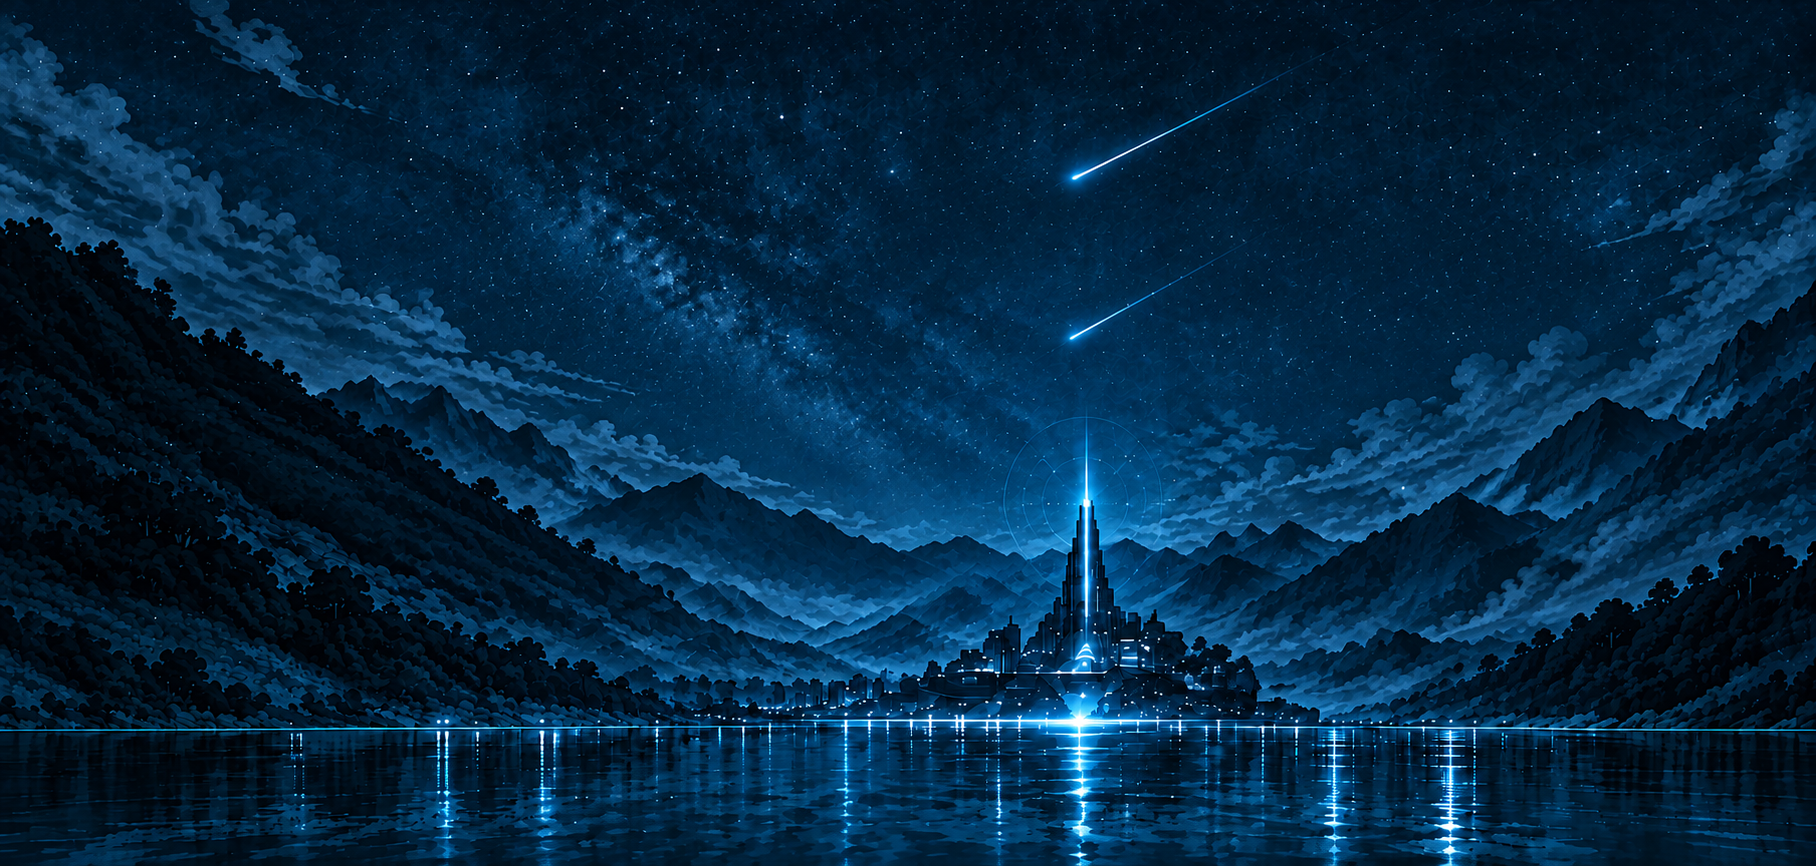
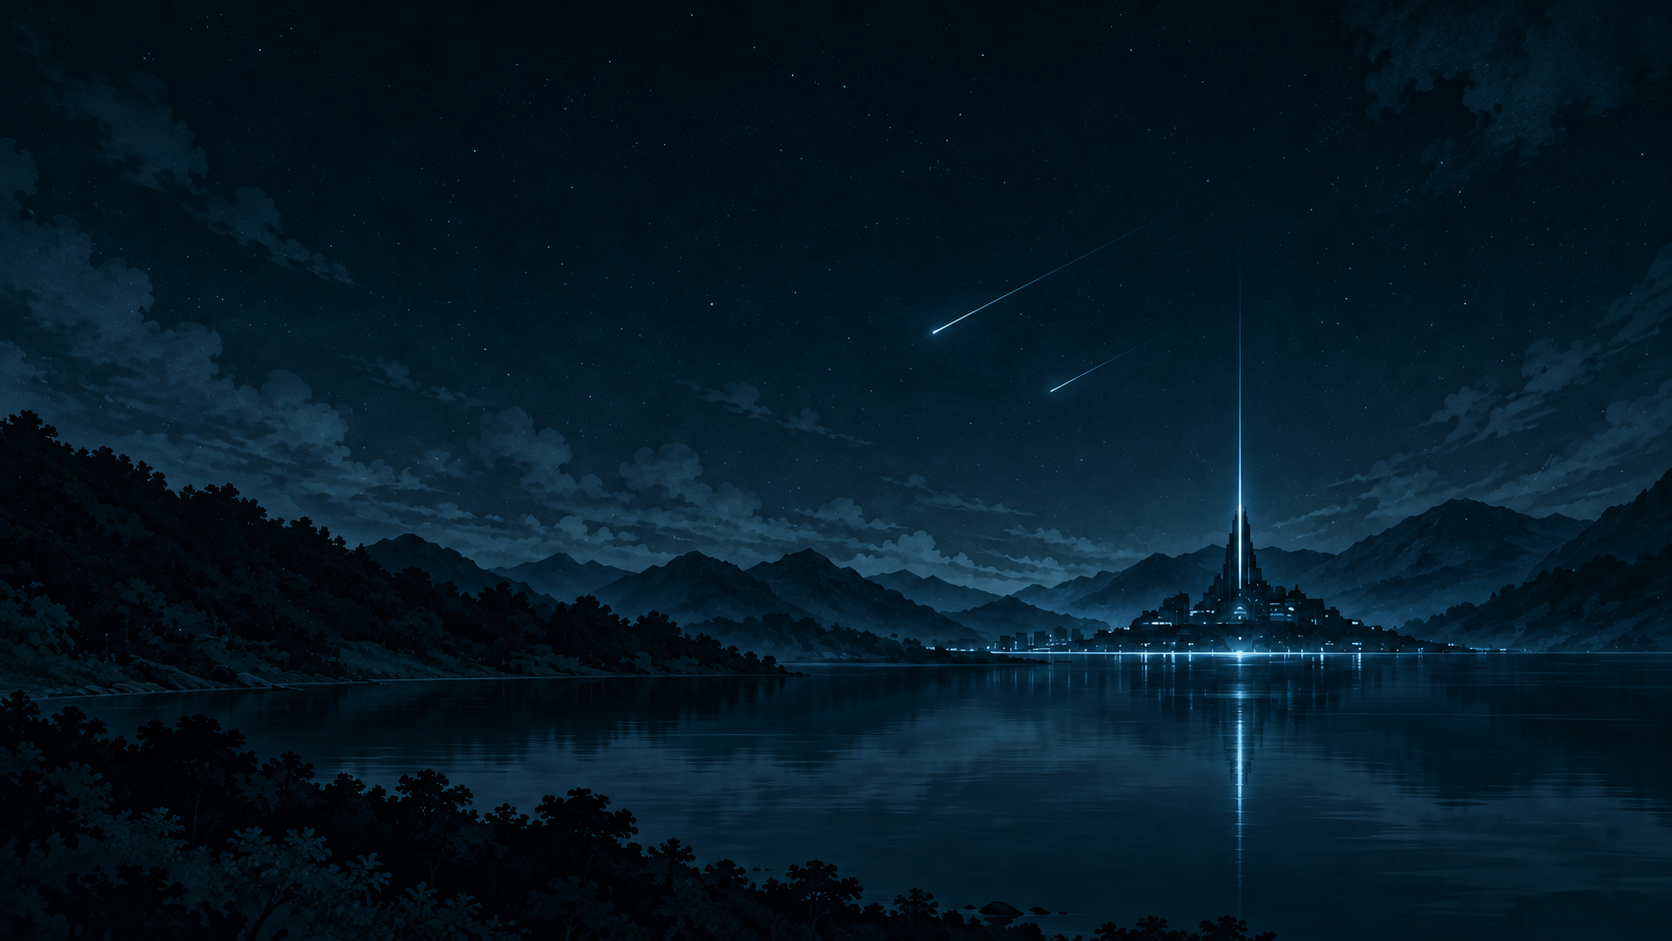
style: replace desktop wallpaper with restrained navy lake scene

diff --git a/assets/wallpapers/README.md b/assets/wallpapers/README.md
@@ -1,0 +1,16 @@
+# 기본 배경화면
+
+`shittim-lake.png`는 사용자가 제공한 차분한 초기 시안에서 글씨·상단 바·시계·HUD 표시를 제거하고, 어두운 남청색·청록색 산과 호수 구도를 16:9 배경으로 재생성한 이미지다. 기본 내장 `image_gen` 도구를 사용했다. 원본 생성 파일은 Codex 생성 이미지 폴더에 보존하고, 프로젝트가 읽는 이미지는 이 디렉터리에 저장한다. `DesktopSurface.qml`과 설치 검증이 같은 기본 파일을 사용한다.
+
+실제 생성 파일은 1672×941 PNG다. 첨부된 1410×375 참고 이미지보다 픽셀 수가 많으며, 요청한 3840×2160 출력은 생성 도구가 반환하지 않았다. 별도 확대 파일을 4K 원본으로 표기하지 않는다.
+
+생성 요청 원문:
+
+```text
+Use case: precise-object-edit / stylized-concept.
+Asset type: high-resolution desktop wallpaper for Shittim, a finished opaque landscape image.
+Input image: the attached panoramic desktop reference is the visual source. Reconstruct ONLY its underlying landscape, removing every interface overlay. Preserve its restrained dark navy / blackened teal palette, quiet low contrast, layered wooded mountain valley, sparse fine stars, two very thin shooting-star streaks, calm lake reflections, and slender futuristic citadel located about three quarters across the frame on the distant shore. The citadel and one delicate vertical cyan light beam are small accents; do not enlarge or dramatize them.
+Remove ALL words, numbers, logos, top bar, icons, time, date, SHITTIM text, system information, horizontal divider lines, HUD circles, clock rings, borders, and interface graphics; naturally reconstruct scenery where these were. Keep the tower's actual architectural light, but remove decorative HUD rings around it.
+Make a clean 16:9 wallpaper at 3840x2160 if supported, otherwise the highest native landscape resolution available. Expand the reference's panoramic landscape naturally vertically to fit 16:9 while keeping the tower on the right, distant shore in the lower quarter, and plenty of subdued open sky. Match the attached image's subdued colors, not the vivid saturated blue / dense glowing stars of a dramatic fantasy wallpaper. No large bright nebula, excessive cyan glow, oversaturated blue, bright white clouds, high-contrast reflective lake, people, or additional buildings. Sharp fine painted/illustrated details, quiet atmospheric depth, no text anywhere.
+```
+

diff --git a/docs/desktop-shell.md b/docs/desktop-shell.md
@@ -1,6 +1,6 @@
 # 바탕화면·하단 Dock·드래그 스냅
 
[1 lines of base64/hex data omitted]
+기본 배경은 `assets/wallpapers/shittim-lake.png`다. 사용자가 제공한 초기 시안의 절제된 남청색·청록색 산과 호수·성 구도를 따라 내장 이미지 생성 도구로 재생성했다. 글씨·상단 바·시계·HUD는 이미지에 포함하지 않는다. 실제 크기는 1672×941이며 생성 프롬프트와 출처는 [배경 파일 설명](../assets/wallpapers/README.md)에 기록한다. 각 모니터의 Background layer에 비율을 유지하는 `PreserveAspectCrop`으로 표시한다. 별도 배경 데몬이나 Nemo 데스크톱 프로세스를 추가하지 않는다. Top Bar·Control Center·알림·대시보드·미디어의 기존 배치를 유지하며, 미디어 내부의 기존 앱 목록도 유지한다.
 
 ## 기능 상태
 
